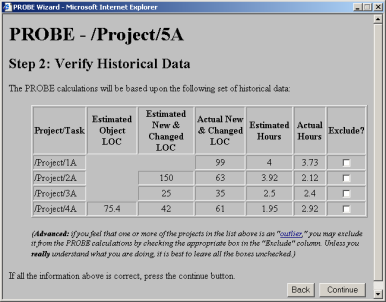
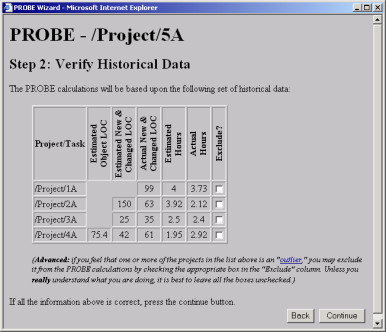
Use vertical text for the table column headings in Step 2 of the PROBE Wizard. (Otherwise, average-length names for projects/tasks cause the table to become too wide, and cause the window to need a horizontal scrollbar.)
git-svn-id: https://svn.code.sf.net/p/processdash/code/trunk@1106 560cad82-bde2-470f-af40-e4e1f8d6548a

Changed region(s): [[0.0, 0.0, 0.9948, 1.0]]

diff --git a/pspdash/Templates/reports/probe/HistData.java b/pspdash/Templates/reports/probe/HistData.java
@@ -195,12 +195,12 @@ class HistData {
                   "following set of historical data:<br>&nbsp;\n"+
                   "<table border style='margin-left:1cm'>"+
                   "<tr><th>Project/Task</th>"+
-                  "<th>Estimated Object LOC</th>" +
-                  "<th>Estimated New &amp; Changed LOC</th>"+
-                  "<th>Actual New &amp; Changed LOC</th>" +
-                  "<th>Estimated Hours</th>" +
-                  "<th>Actual Hours</th>" +
-                  "<th>Exclude?</th></tr>\n");
+                  "<th><img src='EstObjLOC.gif'></th>" +
+                  "<th><img src='EstNCLOC.gif'></th>"+
+                  "<th><img src='ActNCLOC.gif'></th>" +
+                  "<th><img src='EstHours.gif'></th>" +
+                  "<th><img src='ActHours.gif'></th>" +
+                  "<th><img src='Exclude.gif'></th></tr>\n");
         for (int r = 1;   r <= resultSet.numRows();   r++) {
             out.print("<tr>");
             out.print("<td nowrap>");
